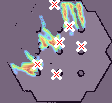
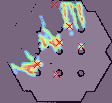
Mouaip inclusion des trucs de autonomous exploration sans ros
BOFFFFFF

diff --git a/main.py b/main.py
@@ -2,7 +2,10 @@ import numpy as np
 import cv2
 import os
 from typing import List, Tuple
+from scipy.optimize import linear_sum_assignment
+from skimage.graph import route_through_array
 
+# ---------------- Détection des points d'intérêt ----------------
 class DetectionPointsInteretsUltraUltra:
     """Détection ultra-optimisée des points d'intérêt + visualisation avec robots et trajets."""
 
@@ -10,11 +13,9 @@ class DetectionPointsInteretsUltraUltra:
         self.top_k = top_k
         self.dossier_debug = dossier_debug
         self.valeur_pixel_supprime = -999999
-
-        # Créer dossier debug
         os.makedirs(dossier_debug, exist_ok=True)
 
-        # Étapes principales
+        # Pipeline principal
         self.img = self.lecture_image(path)
         self.metriques_physiques()
         img_travail = self.transformer_valeurs(self.img)
@@ -23,13 +24,9 @@ class DetectionPointsInteretsUltraUltra:
         self.heatmap_normalisee = self.lissage_normalisation(img_nettoyee)
         self.save(self.heatmap_normalisee, "07_heatmap_normalisee.png")
 
-        # Superposition heatmap
+        # Génération des images
         self.enregistrer_heatmap_superposee()
-
-        # Top-K points d’intérêt
         self.points_interet = self.topk_points_interet(self.heatmap_normalisee, top_k=self.top_k)
-
-        # Heatmap overlay avec points
         self.enregistrer_heatmap_overlay_avec_points()
 
     # ---------- Utilitaires ----------
@@ -41,7 +38,7 @@ class DetectionPointsInteretsUltraUltra:
         out8 = (out * 255).astype(np.uint8)
         cv2.imwrite(os.path.join(self.dossier_debug, filename), out8)
 
-    # ---------- Étape 1 ----------
+    # ---------- Lecture ----------
     def lecture_image(self, path: str) -> np.ndarray:
         img = cv2.imread(path, cv2.IMREAD_GRAYSCALE)
         if img is None:
@@ -50,15 +47,14 @@ class DetectionPointsInteretsUltraUltra:
         self.save(img, "01_image_originale.png")
         return img
 
-    # ---------- Étape 2 ----------
+    # ---------- Metrics physiques ----------
     def metriques_physiques(self):
         taille_pixel = 0.1
         taille_robot = 0.3
         h_px = max(1, int(taille_robot / taille_pixel))
-        w_px = h_px
-        self.matrice_robot = np.ones((h_px, w_px), dtype=np.float32)
+        self.matrice_robot = np.ones((h_px, h_px), dtype=np.float32)
 
-    # ---------- Étape 3 ----------
+    # ---------- Transformation des valeurs ----------
     def transformer_valeurs(self, img: np.ndarray) -> np.ndarray:
         img_f = img.astype(np.float32)
         self.pixel_occupe = 0
@@ -69,16 +65,14 @@ class DetectionPointsInteretsUltraUltra:
         img_f[img == self.pixel_inconnu] = 100
         return img_f
 
-    # ---------- Étape 4 ----------
+    # ---------- Suppression des pixels inutiles ----------
     def suppression_pixels_inutilisables(self, img: np.ndarray) -> np.ndarray:
         img_out = img.copy()
-
-        # Supprimer autour des obstacles
+        # Suppression autour des obstacles
         kernel = self.matrice_robot / np.prod(self.matrice_robot.shape)
         mask_occ = (img_out == -100).astype(np.float32)
         zones = cv2.filter2D(mask_occ, -1, kernel, borderType=cv2.BORDER_CONSTANT)
         img_out[zones != 0] = self.valeur_pixel_supprime
-        self.save(img_out, "03_suppression_autour_obstacles.png")
 
         # Filtrage des inconnus isolés
         mask_known = (img_out == 0).astype(np.float32)
@@ -96,26 +90,18 @@ class DetectionPointsInteretsUltraUltra:
         self.save(img_out, "04_inconnus_filtrage_voisinage.png")
         return img_out
 
-    # ---------- Étape 5 ----------
+    # ---------- Lissage et normalisation ----------
     def lissage_normalisation(self, img: np.ndarray) -> np.ndarray:
         mask_suppr = img <= self.valeur_pixel_supprime
         img2 = img.copy()
 
-        # 1er passage
-        tmp = img2.copy()
-        tmp[mask_suppr] = 0
-        img2[...] = cv2.boxFilter(tmp, -1, (3, 3), normalize=True)
-        img2[mask_suppr] = self.valeur_pixel_supprime
-        self.save(img2, "05_lissage_pass1.png")
+        # 2 passages de boxFilter
+        for _ in range(2):
+            tmp = img2.copy()
+            tmp[mask_suppr] = 0
+            img2[...] = cv2.boxFilter(tmp, -1, (3, 3), normalize=True)
+            img2[mask_suppr] = self.valeur_pixel_supprime
 
-        # 2e passage
-        tmp = img2.copy()
-        tmp[mask_suppr] = 0
-        img2[...] = cv2.boxFilter(tmp, -1, (3, 3), normalize=True)
-        img2[mask_suppr] = self.valeur_pixel_supprime
-        self.save(img2, "06_lissage_pass2.png")
-
-        # Normalisation finale
         valid = img2[~mask_suppr]
         if valid.size == 0:
             return np.zeros_like(img2)
@@ -124,9 +110,8 @@ class DetectionPointsInteretsUltraUltra:
         norm[mask_suppr] = self.valeur_pixel_supprime
         return norm
 
-    # ---------- Étape 6 ----------
-    def topk_points_interet(self, heatmap: np.ndarray, top_k: int) -> List[Tuple[int,int,float]]:
-        """Retourne 1 point par zone connectée, tri par taille puis score."""
+    # ---------- Top-K points d'intérêt ----------
+    def topk_points_interet(self, heatmap: np.ndarray, top_k: int) -> List[Tuple[int,int,float,int]]:
         mask = heatmap > 0
         num_labels, labels = cv2.connectedComponents(mask.astype(np.uint8))
         points = []
@@ -137,121 +122,93 @@ class DetectionPointsInteretsUltraUltra:
                 continue
             scores = heatmap[ys, xs]
             idx_best = np.argmax(scores)
-            zone_size = len(xs)  # taille de la zone
+            zone_size = len(xs)
             points.append((xs[idx_best], ys[idx_best], float(scores[idx_best]), zone_size))
 
-        # Trier d'abord par taille décroissante, puis par score décroissant
+        # Trier par taille puis score
         points.sort(key=lambda p: (-p[3], -p[2]))
-
-        # Retourner top_k points
-        return [(x, y, score, size) for x, y, score, size in points[:top_k]]
-
+        return points[:top_k]
 
     # ---------- Visualisation ----------
     def enregistrer_heatmap_superposee(self, alpha=0.55, colormap=cv2.COLORMAP_TURBO):
         img_orig_color = cv2.cvtColor(self.img, cv2.COLOR_GRAY2BGR)
-        hm = np.clip(self.heatmap_normalisee, 0, 1)
-        hm8 = (hm*255).astype(np.uint8)
-        hm_color = cv2.applyColorMap(hm8, colormap)
-        overlay = cv2.addWeighted(hm_color, alpha, img_orig_color, 1-alpha, 0)
+        hm8 = (np.clip(self.heatmap_normalisee,0,1)*255).astype(np.uint8)
+        overlay = cv2.addWeighted(cv2.applyColorMap(hm8, colormap), alpha, img_orig_color, 1-alpha, 0)
         cv2.imwrite(os.path.join(self.dossier_debug,"heatmap_overlay.png"), overlay)
-        print("[OK] Heatmap superposée enregistrée.")
 
     def enregistrer_heatmap_overlay_avec_points(self, alpha=0.55, colormap=cv2.COLORMAP_TURBO):
-        """Superposition heatmap + points d'intérêt."""
         img_orig_color = cv2.cvtColor(self.img, cv2.COLOR_GRAY2BGR)
-        hm = np.clip(self.heatmap_normalisee, 0, 1)
-        hm8 = (hm*255).astype(np.uint8)
-        hm_color = cv2.applyColorMap(hm8, colormap)
-        overlay = cv2.addWeighted(hm_color, alpha, img_orig_color, 1-alpha, 0)
-
-        for (x, y, a, _) in self.points_interet:
-            cv2.drawMarker(overlay, (x, y), (255,255,255),
-                           markerType=cv2.MARKER_TILTED_CROSS, markerSize=8, thickness=2)
-            cv2.drawMarker(overlay, (x, y), (0,0,255),
-                           markerType=cv2.MARKER_TILTED_CROSS, markerSize=4, thickness=1)
-
+        hm8 = (np.clip(self.heatmap_normalisee,0,1)*255).astype(np.uint8)
+        overlay = cv2.addWeighted(cv2.applyColorMap(hm8, colormap), alpha, img_orig_color, 1-alpha, 0)
+        for (x, y, _, _) in self.points_interet:
+            cv2.drawMarker(overlay, (x, y), (0,0,255), markerType=cv2.MARKER_TILTED_CROSS, markerSize=6, thickness=1)
         cv2.imwrite(os.path.join(self.dossier_debug,"heatmap_overlay_points.png"), overlay)
-        print("[OK] Overlay + points d'intérêt enregistrés.")
 
-    def enregistrer_heatmap_overlay_points_robots(self, robots: List[Tuple[int,int]],
-                                                  targets: List[Tuple[int,int]],
-                                                  paths: List[List[Tuple[int,int]]],
-                                                  alpha=0.55, colormap=cv2.COLORMAP_TURBO):
-        """Heatmap + points d'intérêt + robots + trajets."""
+    def enregistrer_heatmap_overlay_points_robots(self, robots: List[Tuple[int,int]], targets: List[Tuple[int,int]], paths: List[List[Tuple[int,int]]], alpha=0.55, colormap=cv2.COLORMAP_TURBO):
         img_orig_color = cv2.cvtColor(self.img, cv2.COLOR_GRAY2BGR)
-        hm = np.clip(self.heatmap_normalisee, 0, 1)
-        hm8 = (hm*255).astype(np.uint8)
-        hm_color = cv2.applyColorMap(hm8, colormap)
-        overlay = cv2.addWeighted(hm_color, alpha, img_orig_color, 1-alpha, 0)
-
-        # Points d'intérêt
-        for (x, y, a, _) in self.points_interet:
-            cv2.drawMarker(overlay, (x, y), (255,255,255),
-                           markerType=cv2.MARKER_TILTED_CROSS, markerSize=8, thickness=2)
-            cv2.drawMarker(overlay, (x, y), (0,0,255),
-                           markerType=cv2.MARKER_TILTED_CROSS, markerSize=4, thickness=1)
-
+        hm8 = (np.clip(self.heatmap_normalisee,0,1)*255).astype(np.uint8)
+        overlay = cv2.addWeighted(cv2.applyColorMap(hm8, colormap), alpha, img_orig_color, 1-alpha, 0)
+        # Points
+        for (x, y, _, _) in self.points_interet:
+            cv2.drawMarker(overlay, (x, y), (0,0,255), markerType=cv2.MARKER_TILTED_CROSS, markerSize=6, thickness=1)
         # Robots
         for (rx, ry) in robots:
-            cv2.circle(overlay, (rx, ry), 5, (255,0,0), -1, lineType=cv2.LINE_AA)
-
+            cv2.circle(overlay, (rx, ry), 5, (255,0,0), -1)
         # Trajectoires
         for path in paths:
-            if len(path) < 2:
-                continue
             for i in range(len(path)-1):
-                cv2.line(overlay, path[i], path[i+1], (0,255,0), 2, lineType=cv2.LINE_AA)
-
+                cv2.line(overlay, path[i], path[i+1], (0,255,0), 2)
         cv2.imwrite(os.path.join(self.dossier_debug,"heatmap_overlay_points_robots.png"), overlay)
-        print("[OK] Overlay + points + robots + trajets enregistrés.")
 
 
-# -------- Multi-robots simplifié --------
-from scipy.optimize import linear_sum_assignment
-import heapq
-from skimage.graph import route_through_array
-
-
+# ---------------- Multi-Robot Optimisé ----------------
 class MultiRobotUltraUltra:
-    def __init__(self, heatmap: np.ndarray, robots: List[Tuple[int,int]], points_interet: List[Tuple[int,int,float]]):
+    def __init__(self, heatmap: np.ndarray, robots: List[Tuple[int,int]], points_interet: List[Tuple[int,int,float,int]]):
         self.heatmap = heatmap
         self.robots = robots
         self.points_interet = points_interet
-        self.valeur_obstacle = -999999  # pixels obstacles sur la heatmap
-
-        # Carte de coûts pour route_through_array : obstacle = inf, traversable = 1
+        self.valeur_obstacle = -999999
         self.cost_map = np.ones_like(self.heatmap, dtype=np.float32)
         self.cost_map[self.heatmap <= self.valeur_obstacle] = np.inf
 
-    # ---------- Assignation via route_through_array ----------
-    def assign_targets_fast(self) -> Tuple[List[Tuple[int,int]], List[List[Tuple[int,int]]]]:
+    def assign_targets_optimized(self):
         n_r, n_p = len(self.robots), len(self.points_interet)
         if n_r == 0 or n_p == 0:
             return [None]*n_r, [[] for _ in range(n_r)]
 
+        # Calcul des coûts initiaux
         cost_matrix = np.full((n_r, n_p), np.inf, dtype=np.float32)
         paths_matrix = [[[] for _ in range(n_p)] for _ in range(n_r)]
-
-        robot_positions = self.robots.copy()
-
-        # Calculer le chemin et le coût pour chaque robot → point
-        for i, (rx, ry) in enumerate(robot_positions):
+        for i, (rx, ry) in enumerate(self.robots):
             for j, (px, py, score, size) in enumerate(self.points_interet):
                 try:
                     path, cost = route_through_array(self.cost_map, start=(ry, rx), end=(py, px), fully_connected=True)
-                    # On diminue le coût proportionnellement à la taille de la zone
-                    adjusted_cost = cost / (1 + size)
-                    cost_matrix[i, j] = adjusted_cost
+                    cost_matrix[i, j] = cost / (1 + size)
                     paths_matrix[i][j] = [(c, r) for r, c in path]
-                except Exception:
-                    cost_matrix[i, j] = np.inf
-                    paths_matrix[i][j] = []
+                except:
+                    continue
 
-
-        # Hungarian pour assignation optimale
+        # Assignation initiale via Hungarian
         row_ind, col_ind = linear_sum_assignment(cost_matrix)
+        targets = [None]*n_r
+        paths = [[] for _ in range(n_r)]
+        assigned_points = []
+        for r, c in zip(row_ind, col_ind):
+            if cost_matrix[r, c] < np.inf:
+                targets[r] = (self.points_interet[c][0], self.points_interet[c][1])
+                paths[r] = paths_matrix[r][c]
+                assigned_points.append(self.points_interet[c][:2])
 
+        # Réajuster les points trop proches
+        for i in range(n_r):
+            for j, (px, py, score, size) in enumerate(self.points_interet):
+                if (px, py) in assigned_points:
+                    continue
+                dist = min(np.hypot(px - ax, py - ay) for (ax, ay) in assigned_points)
+                cost_matrix[i, j] *= (1 + np.exp(-dist/5))  # pénalisation auto
+
+        # Nouvelle assignation optimisée
+        row_ind, col_ind = linear_sum_assignment(cost_matrix)
         targets = [None]*n_r
         paths = [[] for _ in range(n_r)]
         for r, c in zip(row_ind, col_ind):
@@ -261,18 +218,14 @@ class MultiRobotUltraUltra:
 
         return targets, paths
 
-# ---------------- Exemple ----------------
+
+# ---------------- Exemple d'utilisation ----------------
 if __name__ == "__main__":
     import time
     a = time.time()
     det = DetectionPointsInteretsUltraUltra("map.pgm", top_k=50)
     robots = [(67,60), (67,70)]
-
     multi = MultiRobotUltraUltra(det.heatmap_normalisee, robots, det.points_interet)
-    targets, paths = multi.assign_targets_fast()
-
+    targets, paths = multi.assign_targets_optimized()
     det.enregistrer_heatmap_overlay_points_robots(robots, targets, paths)
-
-
-    print(time.time()-a)
-
+    print("[INFO] Temps total :", time.time()-a)
